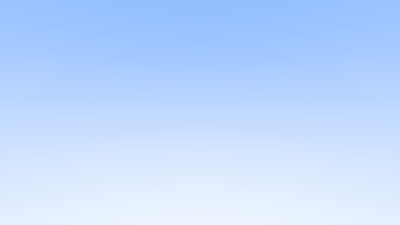
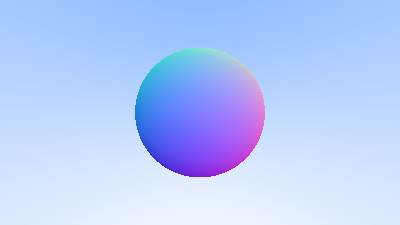
update some classes for draw the sphere

Changed region(s): [[0.33, 0.1867, 0.66, 0.8089]]

diff --git a/Project1/sphere.h b/Project1/sphere.h
@@ -1,0 +1,46 @@
+#ifndef SPHERE_H
+#define SPHERE_H
+
+#include "hittable.h"
+#include "vec3.h"
+
+class sphere : public hittable
+{
+public:
+	sphere(const point3& center, double radius) : center(center), radius(std::fmax(0, radius))
+	{
+
+	}
+	bool hit(const ray& r, double ray_tmin, double ray_tmax, hit_record& rec) const override {
+		vec3 oc = center - r.origin();
+		auto a = r.direction().length_squared();
+		auto h = dot(r.direction(), oc);
+		auto c = oc.length_squared() - radius * radius;
+
+		auto discriminant = h * h - a * c;
+		if (discriminant < 0)
+			return false;
+
+		auto sqrtd = std::sqrt(discriminant);
+		auto root = (h - sqrtd) / a;
+		if (root <= ray_tmin || ray_tmax <= root)
+		{
+			root = (h + sqrtd) / a;
+			if (root <= ray_tmin || ray_tmax <= root)
+				return false;
+		}
+
+		rec.t = root;
+		rec.p = r.at(rec.t);
+		vec3 outward_normal = (rec.p - center) / radius;
+		rec.set_face_normal(r, outward_normal);
+		 
+
+		return true;
+	}
+private:
+	point3 center;
+	double radius;
+};
+
+#endif

diff --git a/Project1/hittable_list.h b/Project1/hittable_list.h
@@ -1,0 +1,41 @@
+#ifndef HITTABLE_LIST_H
+#define HITTABLE_LIST_H
+
+#include "hittable.h"
+#include <memory>
+#include <vector>
+
+class hittable_list : public hittable
+{
+public:
+	std::vector<std::shared_ptr<hittable>> objects;
+	hittable_list(){}
+	hittable_list(std::shared_ptr<hittable> object) { add(object); };
+
+	void clear() { objects.clear(); }
+
+	void add(std::shared_ptr<hittable> object)
+	{
+		objects.push_back(object);
+	}
+
+	bool hit(const ray& r, double ray_tmin, double ray_tmax, hit_record& rec) const override
+	{
+		hit_record temp_rec;
+		bool hit_anything = false;
+		auto closest_so_far = ray_tmax;
+
+		for (const auto& object : objects)
+		{
+			if (object->hit(r, ray_tmin, closest_so_far, temp_rec))
+			{
+				hit_anything = true;
+				closest_so_far = temp_rec.t;
+				rec = temp_rec;
+			}
+		}
+
+		return hit_anything;
+	}
+};
+#endif

diff --git a/Project1/hittable.h b/Project1/hittable.h
@@ -1,0 +1,33 @@
+#ifndef HITTABLE_H
+#define HITTABLE_H
+
+#include "ray.h"
+
+class hit_record {
+public:
+	point3 p;
+	vec3 normal;
+	double t;
+	bool front_face;
+
+	void set_face_normal(const ray& r, const vec3& outward_normal)
+	{
+		if (dot(r.direction(), outward_normal) > 0.0)
+		{
+			normal = -outward_normal;
+			front_face = false;
+		}
+		else
+		{
+			normal = outward_normal;
+			front_face = true;
+		}
+	}
+};
+
+class hittable {
+public:
+	virtual ~hittable() = default;
+	virtual bool hit(const ray& r, double ray_tmin, double ray_tmax, hit_record& rec) const = 0;
+};
+#endif
